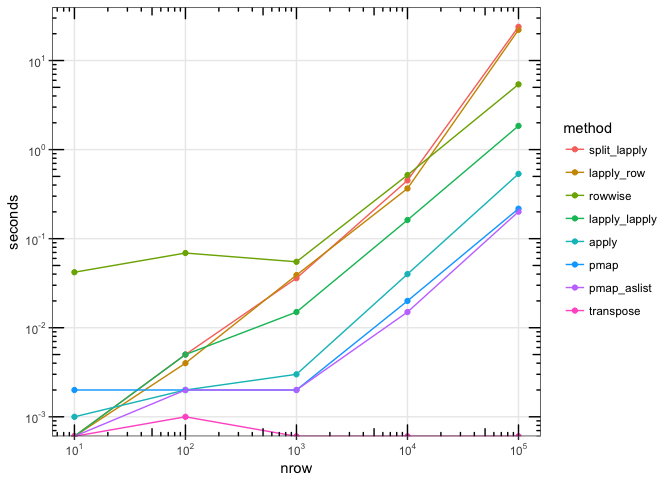
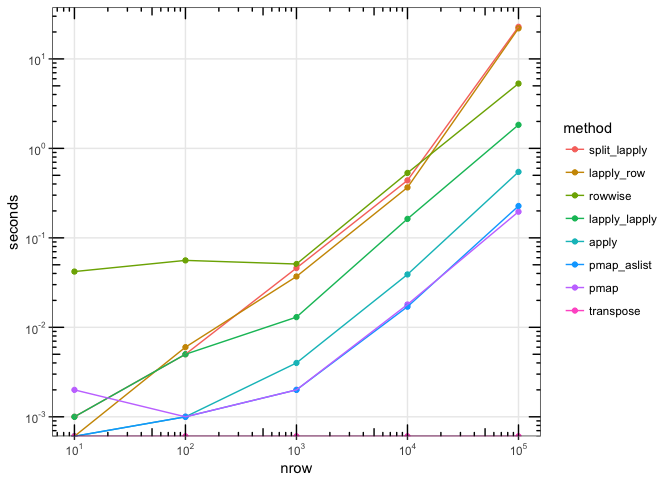
Load packages in a non-caching chunk

diff --git a/wch.md b/wch.md
@@ -18,8 +18,20 @@ A number of people gave suggestions on Twitter, which I've collected here. I've 
 ```r
 library(purrr)
 library(dplyr)
+#> 
+#> Attaching package: 'dplyr'
+#> The following objects are masked from 'package:stats':
+#> 
+#>     filter, lag
+#> The following objects are masked from 'package:base':
+#> 
+#>     intersect, setdiff, setequal, union
 library(tidyr)
+```
 
+
+
+```r
 # @dattali
 # Using apply (only safe when all cols are same type)
 f_apply <- function(df) {
@@ -133,11 +145,11 @@ knitr::kable(times)
 
   nrow   apply   split_lapply   lapply_row   lapply_lapply    pmap   pmap_aslist   rowwise   transpose
 ------  ------  -------------  -----------  --------------  ------  ------------  --------  ----------
- 1e+01   0.001          0.000        0.000           0.000   0.002         0.000     0.042       0.000
- 1e+02   0.002          0.005        0.004           0.005   0.002         0.002     0.069       0.001
- 1e+03   0.003          0.036        0.039           0.015   0.002         0.002     0.055       0.000
- 1e+04   0.040          0.451        0.366           0.162   0.020         0.015     0.518       0.000
- 1e+05   0.534         23.915       22.106           1.847   0.217         0.201     5.398       0.000
+ 1e+01   0.000          0.001        0.000           0.001   0.002         0.000     0.042           0
+ 1e+02   0.001          0.005        0.006           0.005   0.001         0.001     0.056           0
+ 1e+03   0.004          0.046        0.037           0.013   0.002         0.002     0.051           0
+ 1e+04   0.039          0.439        0.366           0.163   0.018         0.017     0.532           0
+ 1e+05   0.546         22.844       21.957           1.833   0.196         0.227     5.301           0
 
 
 ## Plot times
